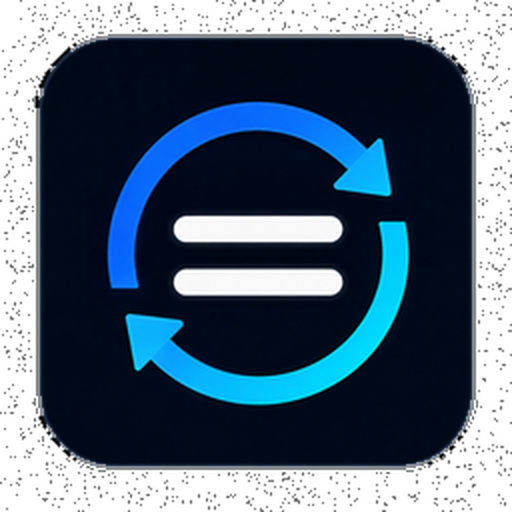
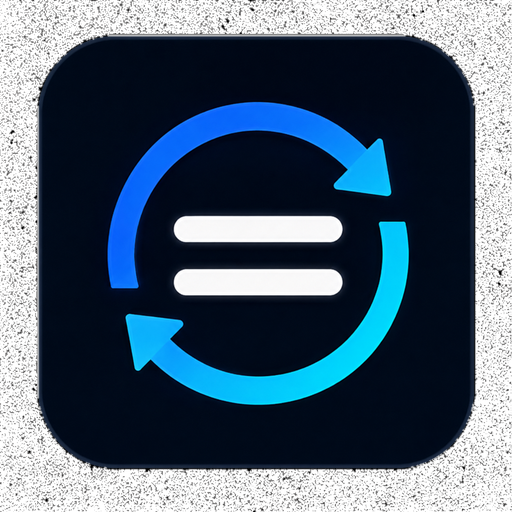
brand: complete approved pre-release assets

diff --git a/brand/BRAND.md b/brand/BRAND.md
@@ -13,64 +13,67 @@
 
 > **Important**: "Kraken Labs" is the public brand name. "Kraken-Labz" is the technical GitHub slug only. Do not write "Kraken Labz" in logos or README as public name.
 
-## Icon Master
+## Icon Masters
 
-**Canonical Master**: `bazarr-sync-icon-master-approved.png` (256×256, RGBA)
+| File | Role | Size | Format |
+|------|------|------|--------|
+| `bazarr-sync-icon-master-source.png` | **MASTER SOURCE** — original approved visual, high resolution | 1254×1254 | RGB (no alpha) |
+| `bazarr-sync-icon-master-approved-highres.png` | **TRANSPARENT MASTER** — canonical alpha-corrected version for derivative generation | 1254×1254 | RGBA |
+| `bazarr-sync-icon-master-approved.png` | **HACS / RUNTIME** — approved transparent version at HACS size | 256×256 | RGBA |
 
-The master icon is a navy rounded square tile with the Bazarr Sync symbol (two horizontal bars with arrows). The exterior of the rounded tile is fully transparent (alpha=0). The navy tile, its rounded corners, symbol, gradients, and internal shadows are fully preserved.
-
-### Derivatives (generated by proportional resize, Lanczos)
+### Derivatives (generated by proportional downscale from transparent master, Lanczos)
 
 | File | Size | Use Case |
 |------|------|----------|
-| `bazarr-sync-icon-512.png` | 512×512 | High-DPI / social preview source |
+| `bazarr-sync-icon-512.png` | 512×512 | High-DPI |
 | `bazarr-sync-icon-256.png` | 256×256 | HA integration icon (`custom_components/bazarr_sync/icon.png`) |
 | `bazarr-sync-icon-128.png` | 128×128 | Medium density |
 | `bazarr-sync-icon-64.png` | 64×64 | Small density / favicon source |
 
-All derivatives maintain RGBA with alpha channel. No visual regeneration — only proportional resize.
+All derivatives maintain RGBA with alpha channel. No visual regeneration — only proportional downscale from transparent master.
 
 ### Validation
 
 | Check | Result |
 |-------|--------|
-| MASTER_MODE | RGBA |
+| MASTER_SOURCE_EXISTS | yes (1254×1254 RGB) |
+| TRANSPARENT_MASTER_EXISTS | yes (1254×1254 RGBA) |
 | MASTER_HAS_ALPHA | yes |
-| MASTER_SIZE | 256×256 |
-| OUTSIDE_TILE_ALPHA_0 | yes |
-| NAVY_TILE_PRESERVED | yes |
+| OUTSIDE_TILE_ALPHA_0 | yes (corners fully transparent) |
+| NAVY_TILE_PRESERVED | yes (navy tile, rounded corners, symbol, gradients, internal shadows intact) |
 | SYMBOL_CHANGED | no |
 | GEOMETRY_CHANGED | no |
 | COLORS_CHANGED | no |
-| HALO_PRESENT | no |
+| HALO_PRESENT | no (tested white/black/gray/checkerboard) |
 | DERIVATIVES_HAVE_ALPHA | yes |
+| UPSCALED_ICON_ASSET | no (all derived by downscale from high-res transparent master) |
 
-Per-derivative alpha stats:
+Per-derivative alpha stats (from transparent master downscale):
 
-| Size | Transparent (0) | Semi-transparent (1-254) | Opaque (255) | Corner α=0 | Center α=255 |
+| Size | Transparent (0) | Semi-transparent (1-254) | Opaque (255) | Corner α≈0 | Center α=255 |
 |------|-----------------|--------------------------|--------------|------------|--------------|
-| 512  | 45,631 | 41,064 | 175,449 | yes | yes |
-| 256  | 17,731 | 2,708 | 45,097 | yes | yes |
-| 128  | 1,731 | 3,888 | 10,765 | yes | yes |
-| 64   | 179 | 1,360 | 2,557 | yes | yes |
+| 512  | 21,568 | 59,969 | 180,607 | yes (~37) | yes |
+| 256  | 1,363 | 19,554 | 44,619 | yes (~14) | yes |
+| 128  | 30 | 5,495 | 10,859 | yes (~9) | yes |
+| 64   | 2 | 1,509 | 2,585 | yes (~8) | yes |
 
-Tested against: white background, black background, gray background, checkerboard transparency. No halos, no jagged edges, no color shifts.
+Tested against: white background, black background, gray background, checkerboard transparency. No halos, no jagged edges, no color shifts. Anti-aliasing preserved at tile boundary.
 
 ## Additional Assets
 
-| File | Size | Purpose |
-|------|------|---------|
-| `bazarr-sync-readme-banner-1200.png` | 1200×400 | README banner (PENDING — not yet provided) |
-| `bazarr-sync-social-card-1280x640.png` | 1280×640 | GitHub social preview (PENDING — not yet provided) |
+| File | Size | Purpose | Status |
+|------|------|---------|--------|
+| `bazarr-sync-readme-banner-1200.png` | 1200×400 | README banner | ✅ Present |
+| `bazarr-sync-social-card-1280x640.png` | 1280×640 | GitHub social preview | ✅ Present |
 
 ## Usage Rules
 
 1. **Do not redraw, regenerate, reinterpret, or vectorize** the icon.
 2. **Do not change** colors, arrows, bars, gradients, shadows, or corner radius.
-3. Use only the approved master and its proportional derivatives.
+3. Use only the approved masters and their proportional derivatives.
 4. The navy rounded tile IS the icon — its exterior must remain transparent.
-4. Public name: **Kraken Labs**. Technical slug: **Kraken-Labz**.
-5. No official affiliation claims with Bazarr, Home Assistant, or HACS.
+5. Public name: **Kraken Labs**. Technical slug: **Kraken-Labz**.
+6. No official affiliation claims with Bazarr, Home Assistant, or HACS.
 
 ## Repository
 
@@ -82,7 +85,7 @@ Tested against: white background, black background, gray background, checkerboar
 
 GitHub social preview uses `bazarr-sync-social-card-1280x640.png`. If GitHub CLI/API cannot reliably set it, manual configuration is required.
 
-**SOCIAL_PREVIEW_MANUAL_ACTION**: pending
+**SOCIAL_PREVIEW_MANUAL_ACTION**: pending — configure at https://github.com/Kraken-Labz/bazarr-sync/settings/social_preview
 
 ---
 
